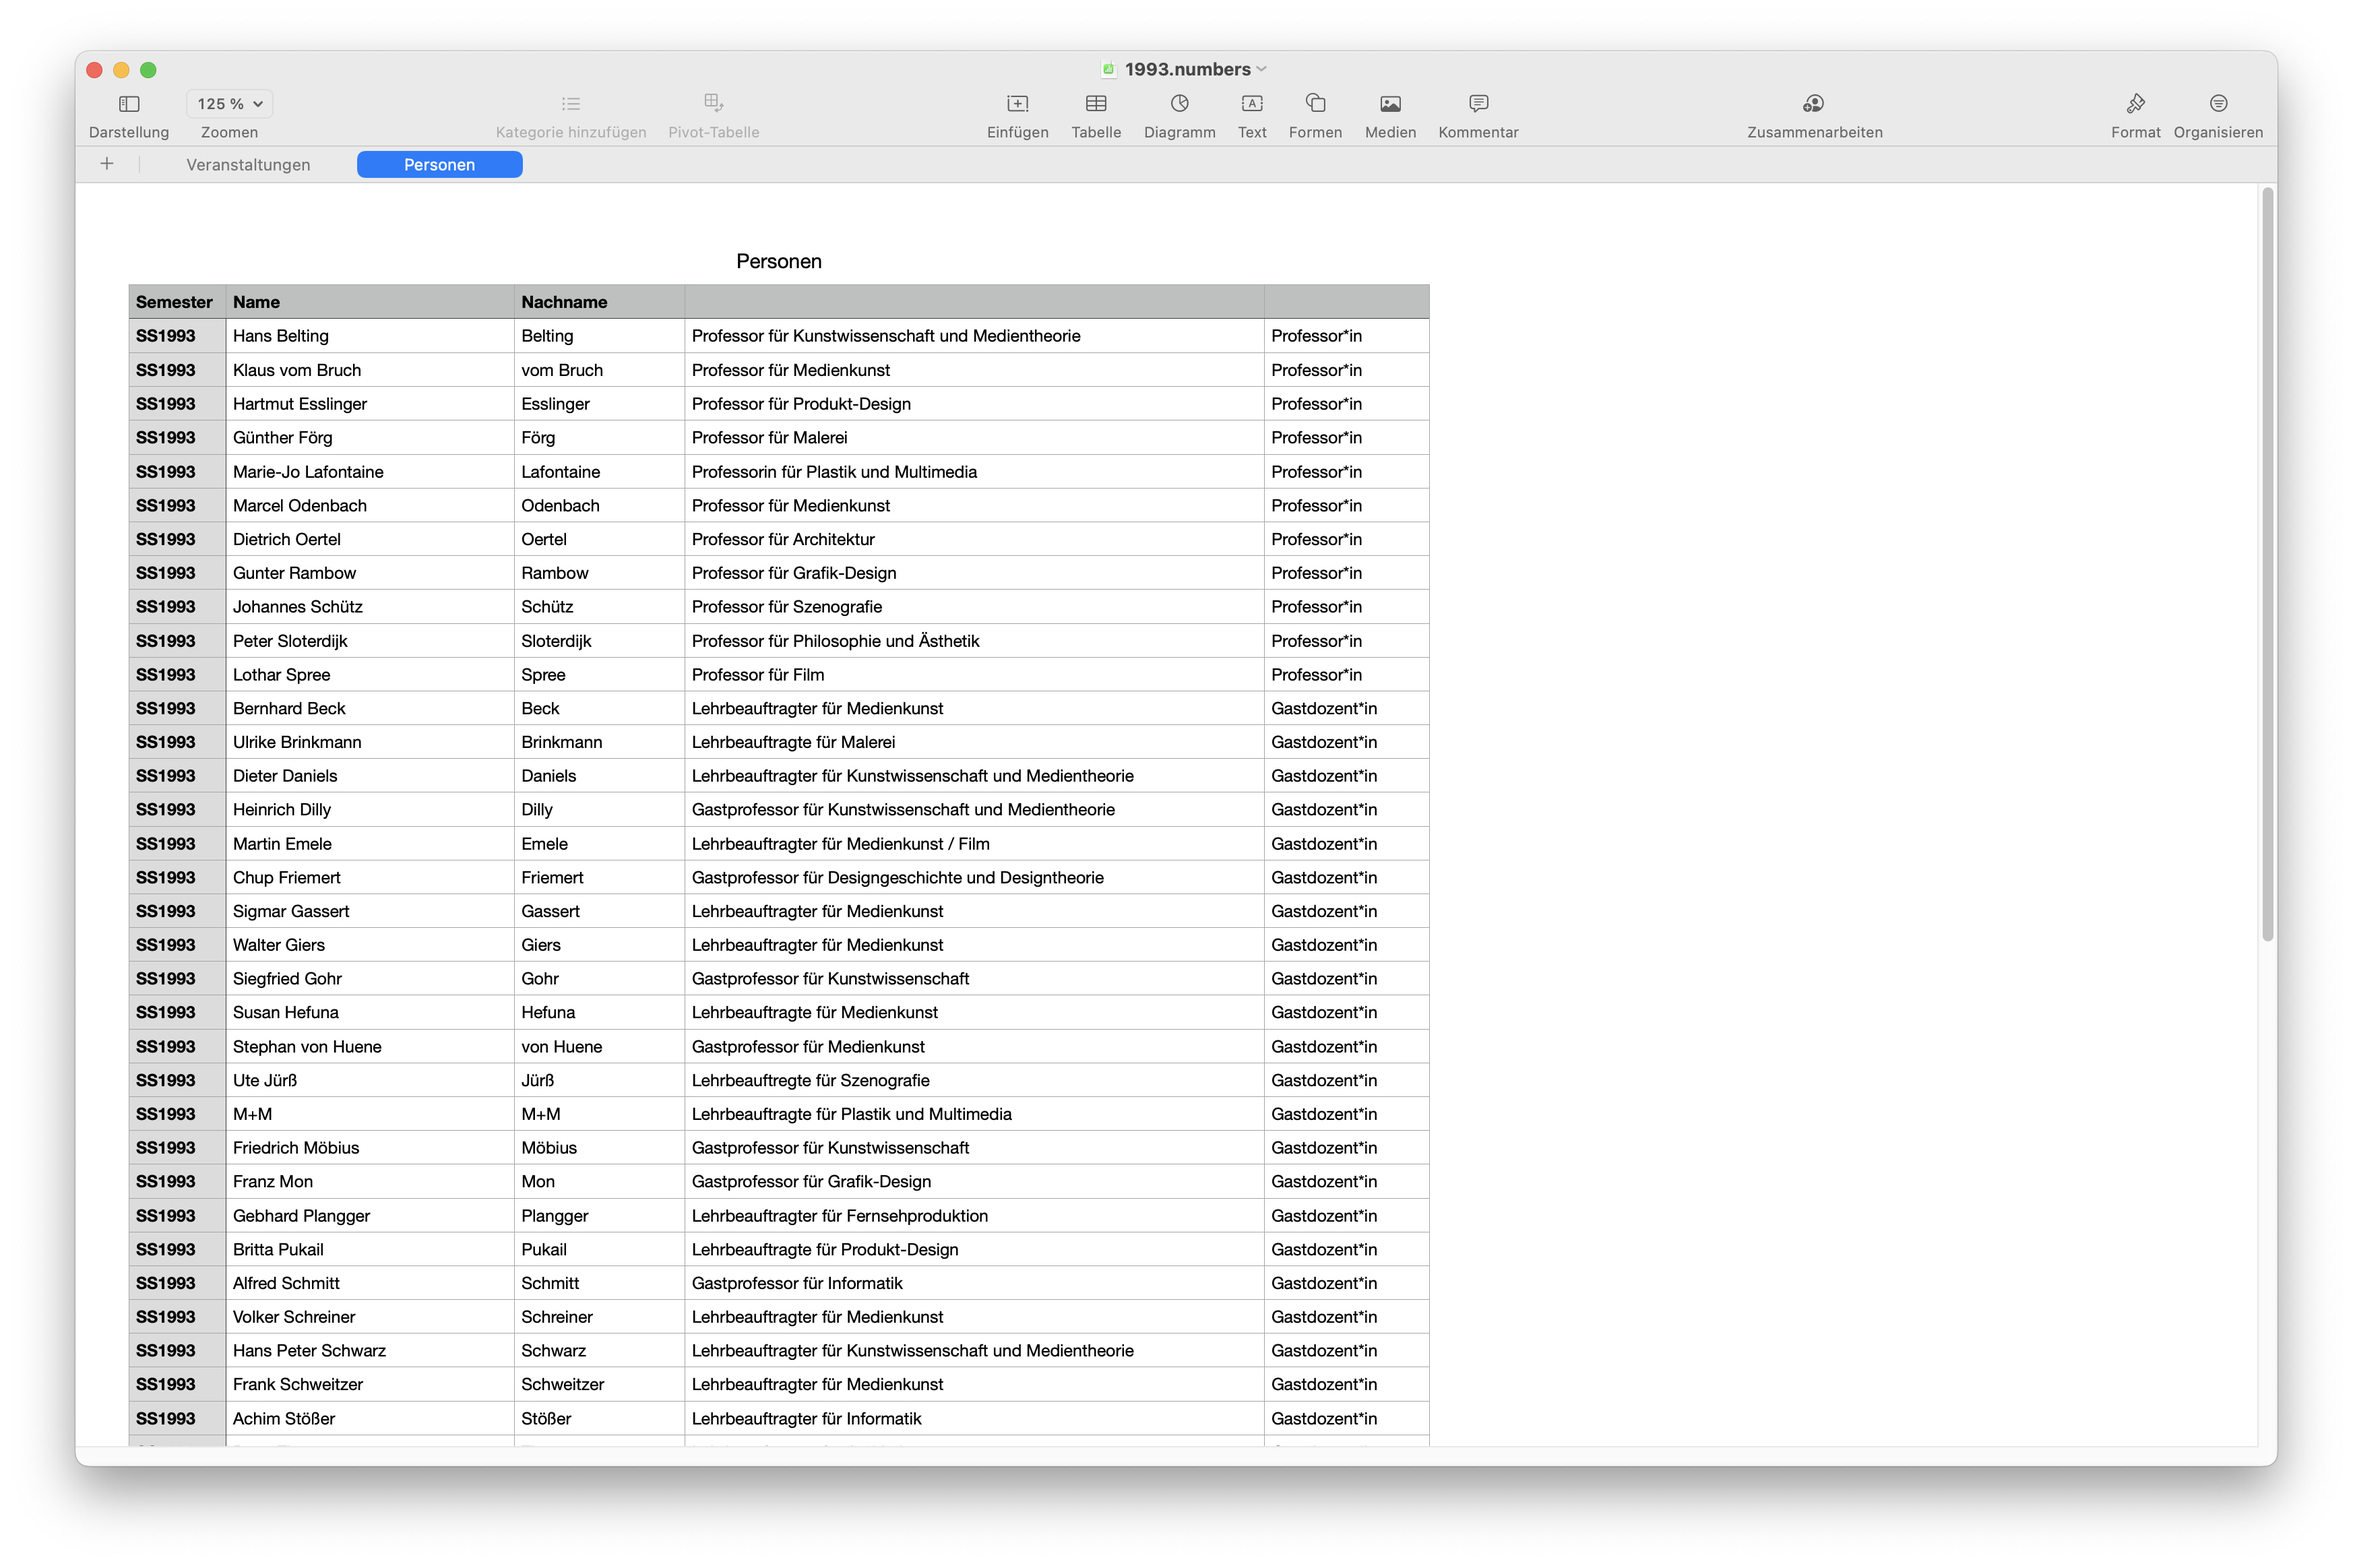
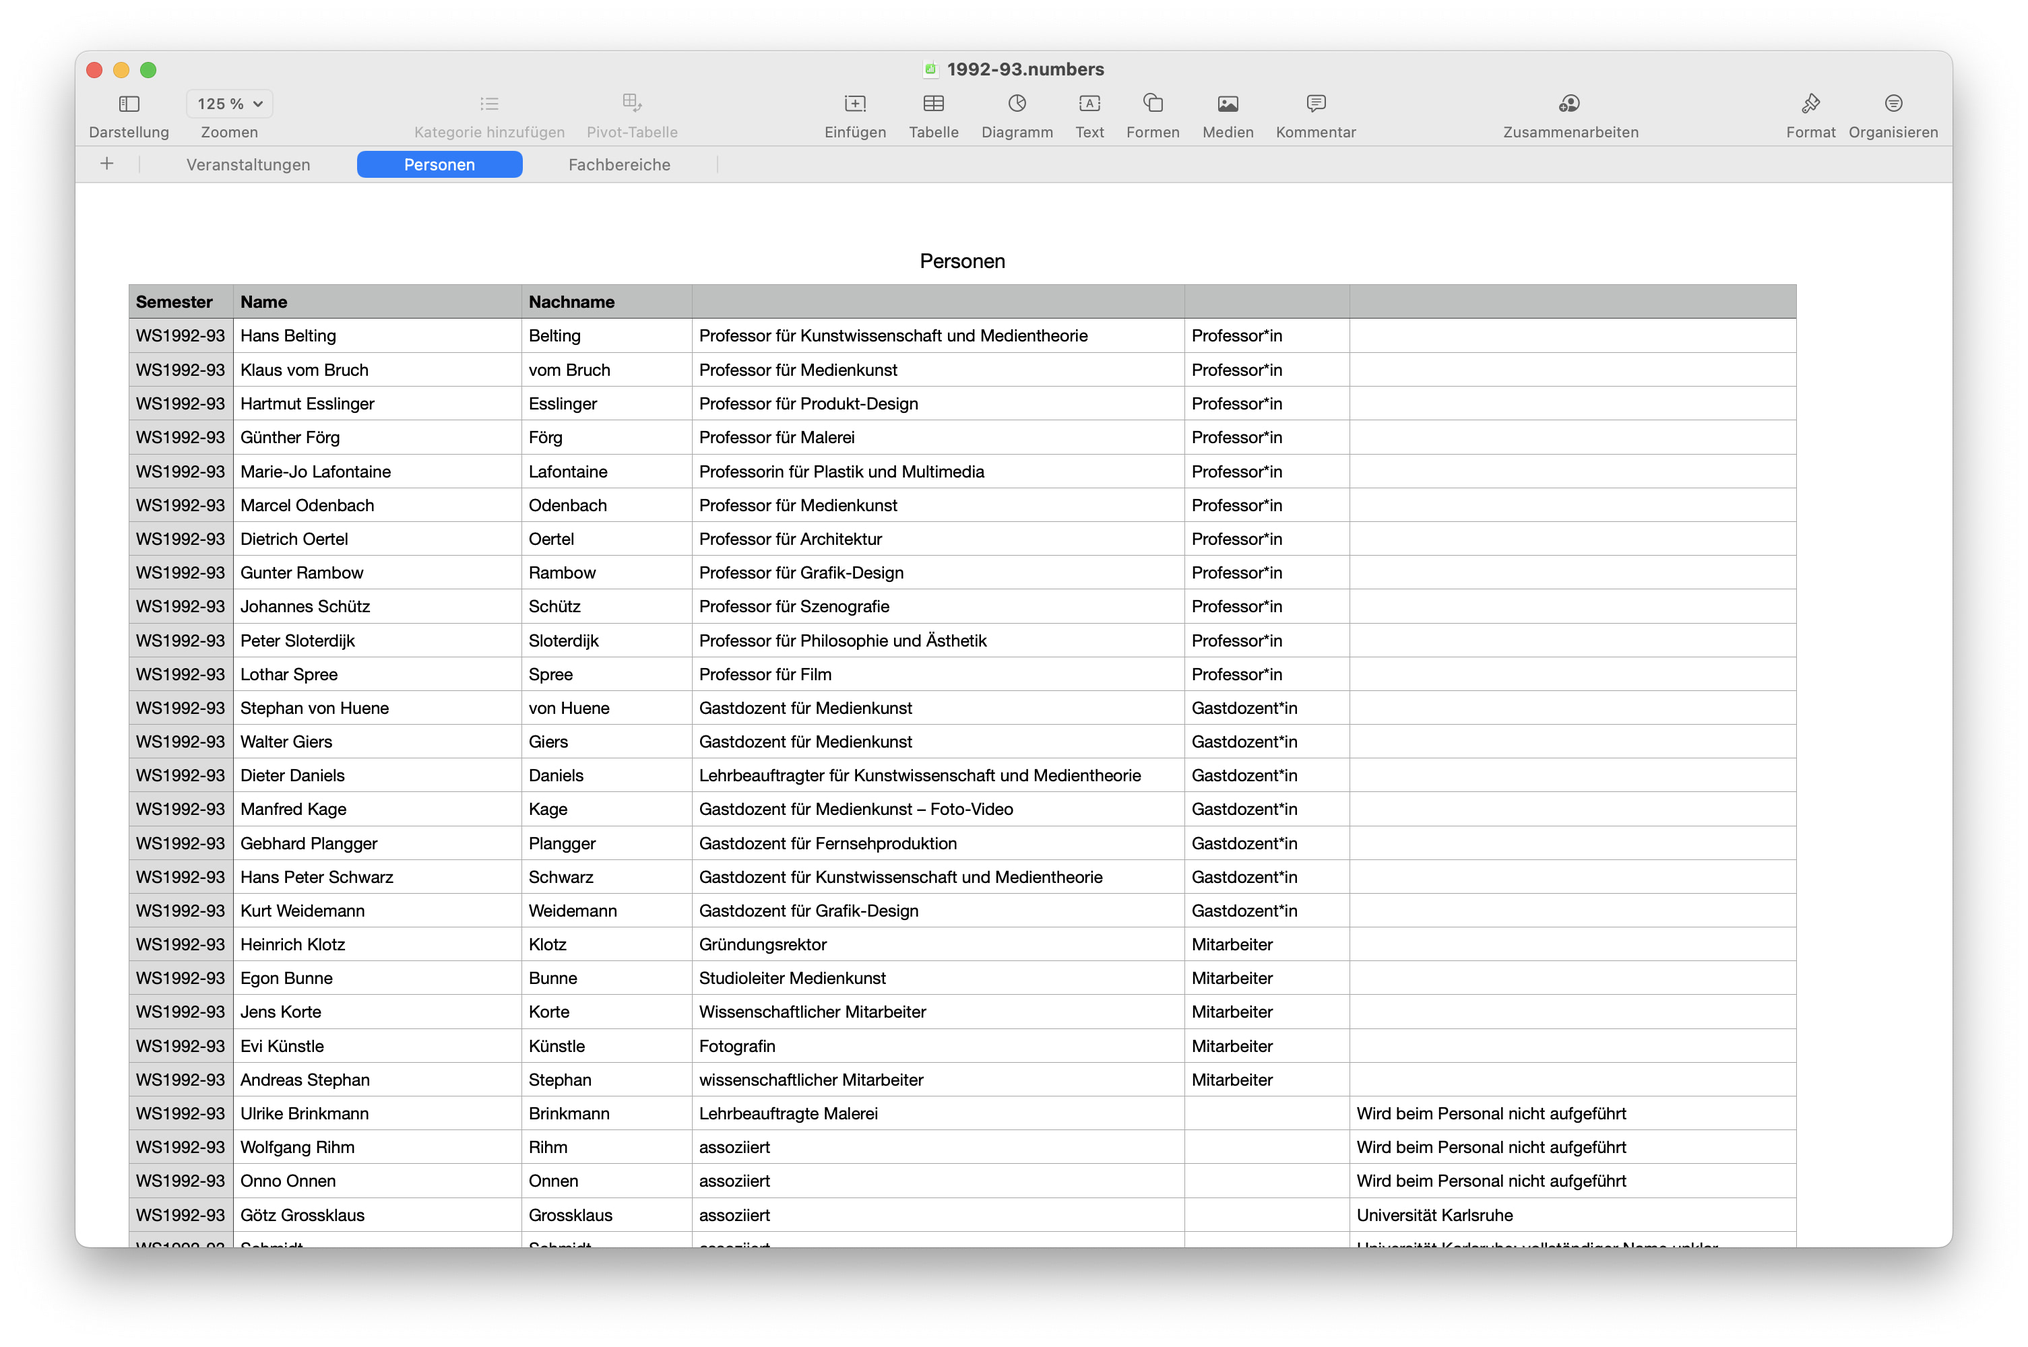
README.md, fachbereiche.jpg und personen.jpg aktualisiert

diff --git a/Forschungsdaten/2-Texterkennung-PDF/README.md b/Forschungsdaten/2-Texterkennung-PDF/README.md
@@ -14,6 +14,11 @@ Für die Texterkennung in PDFs haben wir verschiedene Tools verglichen. Bei unse
 
 ![](img/personen.jpg)
 
+#### Fachbereiche-Liste
+
+Dasselbe für die Fachbereiche, wie sie im VVZ abgedruckt sind.
+
+![](img/fachbereiche.jpg)
 
 #### Texte korrigieren
 
